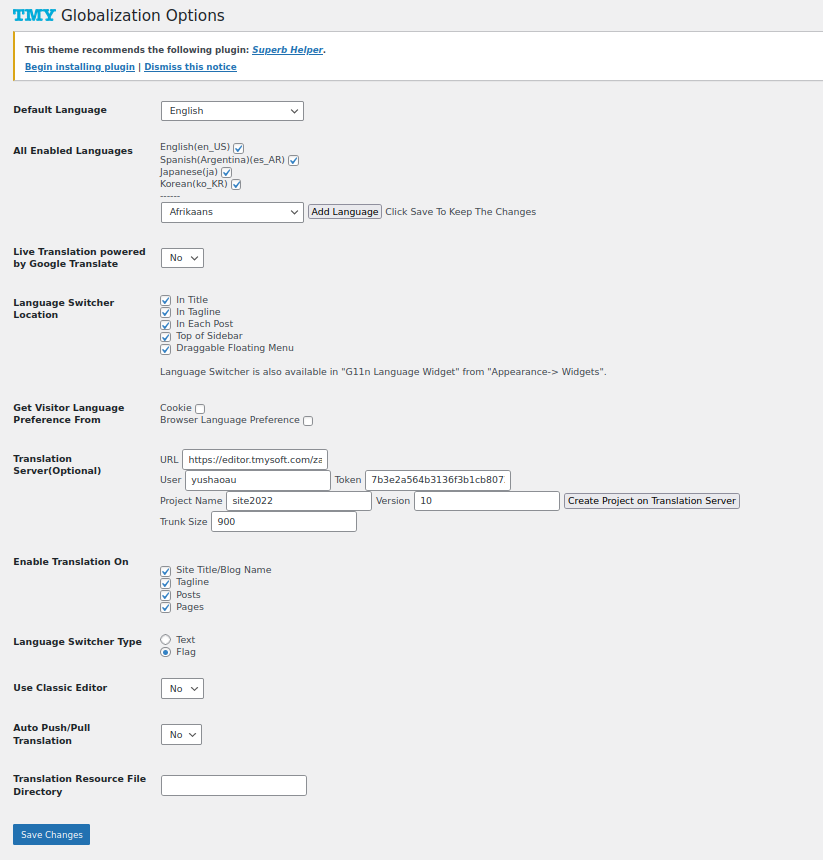
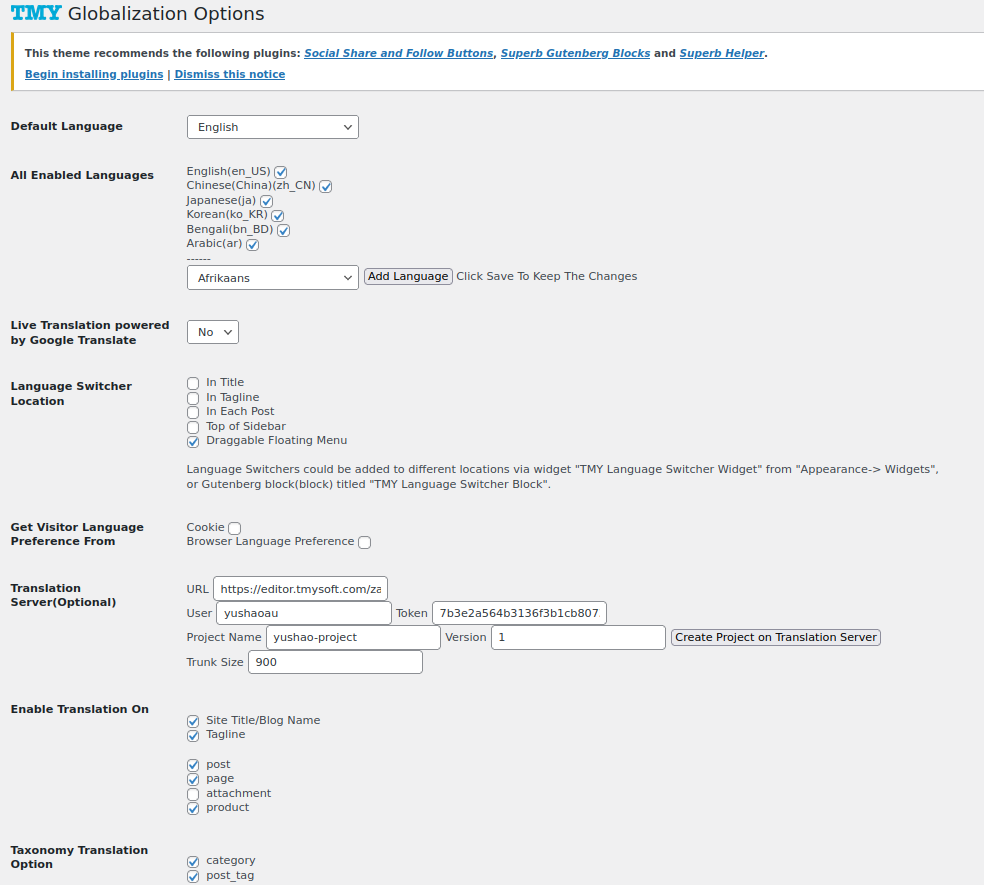
Update doc for taxonomies

diff --git a/src/admin/class-tmy-g11n-admin.php b/src/admin/class-tmy-g11n-admin.php
@@ -301,7 +301,7 @@ class TMY_G11n_Admin {
                         }
 
                         $return_msg .= '<b>This is the ' . esc_attr($trans_lang) . ' translation page of <a href="' . 
-                             esc_url( get_edit_post_link($original_id) ) . '">' . $original_title . 
+                             esc_url( get_edit_post_link($original_id) ) . '">' . esc_attr($original_title) . 
                            ' (ID:' . esc_attr($original_id) . ')</a>';
                     }
 
@@ -360,9 +360,7 @@ class TMY_G11n_Admin {
         public function tmy_translation_metabox_taxonomy_edit( $wp_term, $taxonomy ) {
 
             echo ("<table><tr><td><div id=\"tmy_translation_status_box_div\">");
-            echo ("<br><b>Translation Status: </b>" . $taxonomy);
-            echo ("<br>". $taxonomy);
-            echo ("<br>Taxonomy: " . json_encode($wp_term));
+            echo ("<br><b>Translation Status: </b>" );
             //echo tmy_g11n_html_kses_esc($this->_get_tmy_g11n_metabox($wp_term->term_id, "taxonomy"));
             echo tmy_g11n_html_kses_esc($this->_get_tmy_g11n_metabox($wp_term->term_id, $taxonomy));
             echo ("</div></td></tr></table>");
@@ -1024,8 +1022,8 @@ RewriteRule . <?php echo esc_attr($home_root); ?>index.php [L]<br>
                    $lang_info = "";
 
                    foreach ($lang_rows as $lang_row) {
-                       //$lang_info .= "{$lang_row[1]}({$lang_row[0]}) "; 
-                       $lang_info .= "{$lang_row[1]}(<a href=\"" .
+                       //$lang_info .= "{esc_attr($lang_row[1])}({esc_attr($lang_row[0]})) "; 
+                       $lang_info .= esc_attr($lang_row[1]) . "(<a href=\"" .
                              esc_url( get_edit_post_link($lang_row[0]) ) . "\">" . 
                              esc_attr($lang_row[0]) . "</a>) "; 
                    }
@@ -1044,7 +1042,7 @@ RewriteRule . <?php echo esc_attr($home_root); ?>index.php [L]<br>
             echo "<br>";
             //echo json_encode($rows);
             echo '<form method="post">';
-            ?> <input type="hidden" name="page" value="<?php echo $_REQUEST['page'] ?>" /><?php
+            ?> <input type="hidden" name="page" value="<?php echo esc_attr($_REQUEST['page']) ?>" /><?php
 
 
             $table->items = $qualified_rows;
@@ -1058,11 +1056,9 @@ RewriteRule . <?php echo esc_attr($home_root); ?>index.php [L]<br>
 
         }
         public function tmy_translation_taxonomy_table_action() {
-           //         echo '<div class="notice notice-success is-dismissible"><p> bulk action 456</p></div>';
- 
-                     // security check!
-error_log("AAAAAAAAAAAABBB: " . json_encode($_POST));
-error_log("AAAAAAAAAAAABBB: " . json_encode($_REQUEST));
+
+            //         echo '<div class="notice notice-success is-dismissible"><p> bulk action 456</p></div>';
+            // security check!
             if ( isset( $_POST['_wpnonce'] ) && ! empty( $_POST['_wpnonce'] ) ) {
                 $nonce  = filter_input( INPUT_POST, '_wpnonce', FILTER_SANITIZE_STRING );
                 $action = 'bulk-' . $this->_args['plural'];
@@ -1084,7 +1080,7 @@ error_log("AAAAAAAAAAAABBB: " . json_encode($_REQUEST));
                         //$this->_tmy_create_sync_translation($term_id, "taxonomy");
                         $this->_tmy_create_sync_translation($term_id, $tax_type);
                     }
-                    wp_redirect($_SERVER['REQUEST_URI']);
+                    wp_redirect(esc_url($_SERVER['REQUEST_URI']));
                     return;
                     break;
 
@@ -1113,13 +1109,13 @@ error_log("AAAAAAAAAAAABBB: " . json_encode($_REQUEST));
                              }
                         }
                         if (strcmp($term_notify,"")===0) {
-                            echo '<div class="notice notice-success is-dismissible"><p> Term ID: ' . $term_id . ", no translation found" . '</p></div>';
+                            echo '<div class="notice notice-success is-dismissible"><p> Term ID: ' . esc_attr($term_id) . ", no translation found" . '</p></div>';
                         } else {
-                            echo '<div class="notice notice-success is-dismissible"><p> Term ID: ' . $term_id . ", removed translation for: " . $term_notify . '</p></div>';
+                            echo '<div class="notice notice-success is-dismissible"><p> Term ID: ' . esc_attr($term_id) . ", removed translation for: " . esc_attr($term_notify) . '</p></div>';
                         }
 
                     }
-                    wp_redirect($_SERVER['REQUEST_URI']);
+                    wp_redirect(esc_url($_SERVER['REQUEST_URI']));
                     return;
                     break;
 

diff --git a/src/admin/include/class-tmy-g11n-table.php b/src/admin/include/class-tmy-g11n-table.php
@@ -33,7 +33,7 @@ public function __construct() {
 
         function column_cb($item) {
             return sprintf(
-                '<input type="checkbox" name="term_id[]" value="%s" />', $item[0]
+                '<input type="checkbox" name="term_id[]" value="%s" />', esc_attr($item[0])
                            );    
         }
 

diff --git a/README.md b/README.md
@@ -117,6 +117,30 @@ Then the plugin will automatically create the place holder post corresponding to
 
 Following the same way to translate the page or post to complete the translation.
 
+## Use TMY Plugin For Taxonomies Translation(Categories, Tags, Woocommerces) 
+
+TMY plugin will automatic detect all the taxonomy types including those from other themes or plugins, as shown in the following screen shots, enable as your need.
+
+<kbd><img src="doc/tmy-enable-tax.png" width="300"/></kbd>
+
+Then visit TMY Globalization -> TMY Taxonomies page, to start translation, you can use bulk action or in the invidual Catgeories or Tags page to start individual setup page , then following the same steps as you tanslate Posts or Pages.
+
+<kbd><img src="doc/tmy-taxonomies.png" width="600"/></kbd>
+
+TMY plugin will automatic detect all the taxonomy types including those from other themes or plugins, as shown in the following screen shots, enable as your need.
+
+Following the same way to translate the page or post to complete the translation.
+
+## Translate Woo Commerce Product Attributes
+
+Create a private Post with the title the same as the Product attribute, then start translation as you do with normal Post, remember to keep it private, so it will not show up on your site. 
+
+TMY plugin will pickup the translation following the string match("Color" to "Color") and use it for Woo Commerce product attribute translation.
+
+<kbd><img src="doc/tmy-woo-prod-attributes.png" width="600"/></kbd>
+
+<kbd><img src="doc/tmy-private-post-for-attribute.png" width="600"/></kbd>
+
 ## Translate Excerpt of Woo Commerce Product
 
 Excerpt of a Woo Commerce product is used as brief introduction of the product, reference following screenshot to get it translated.
